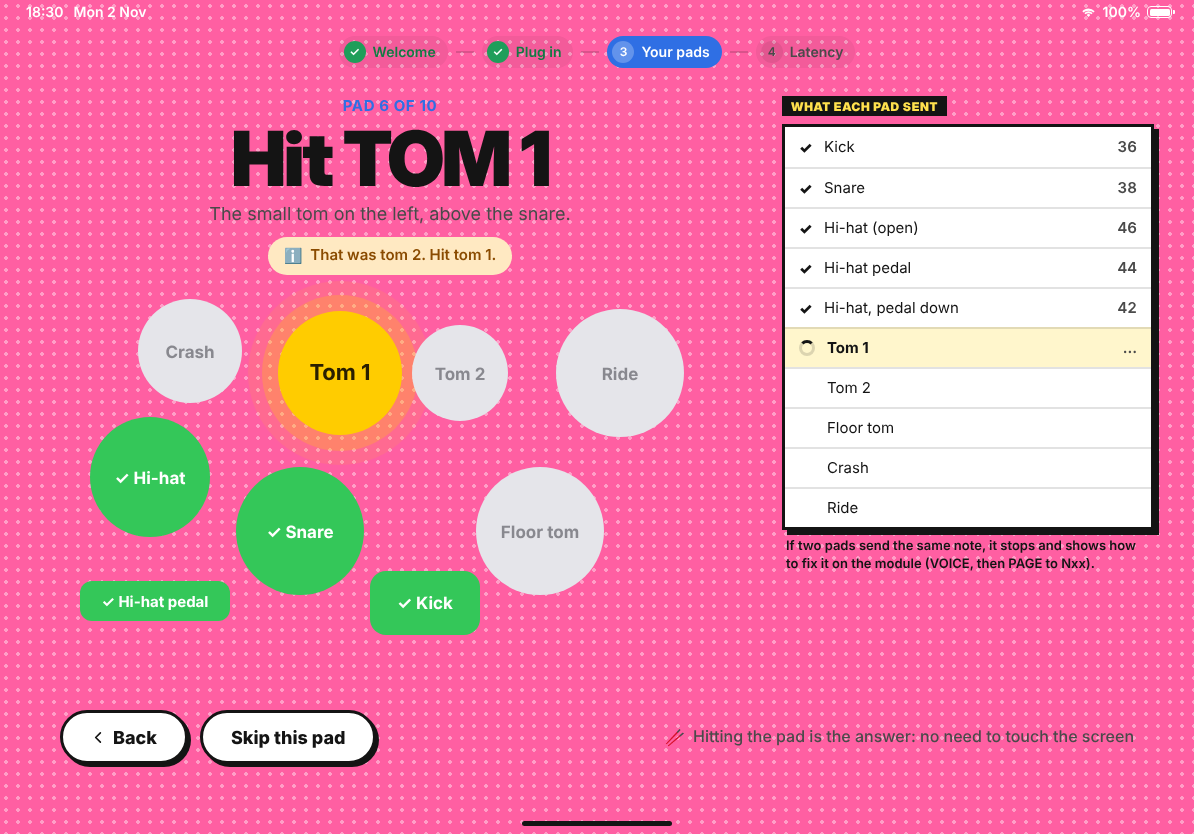
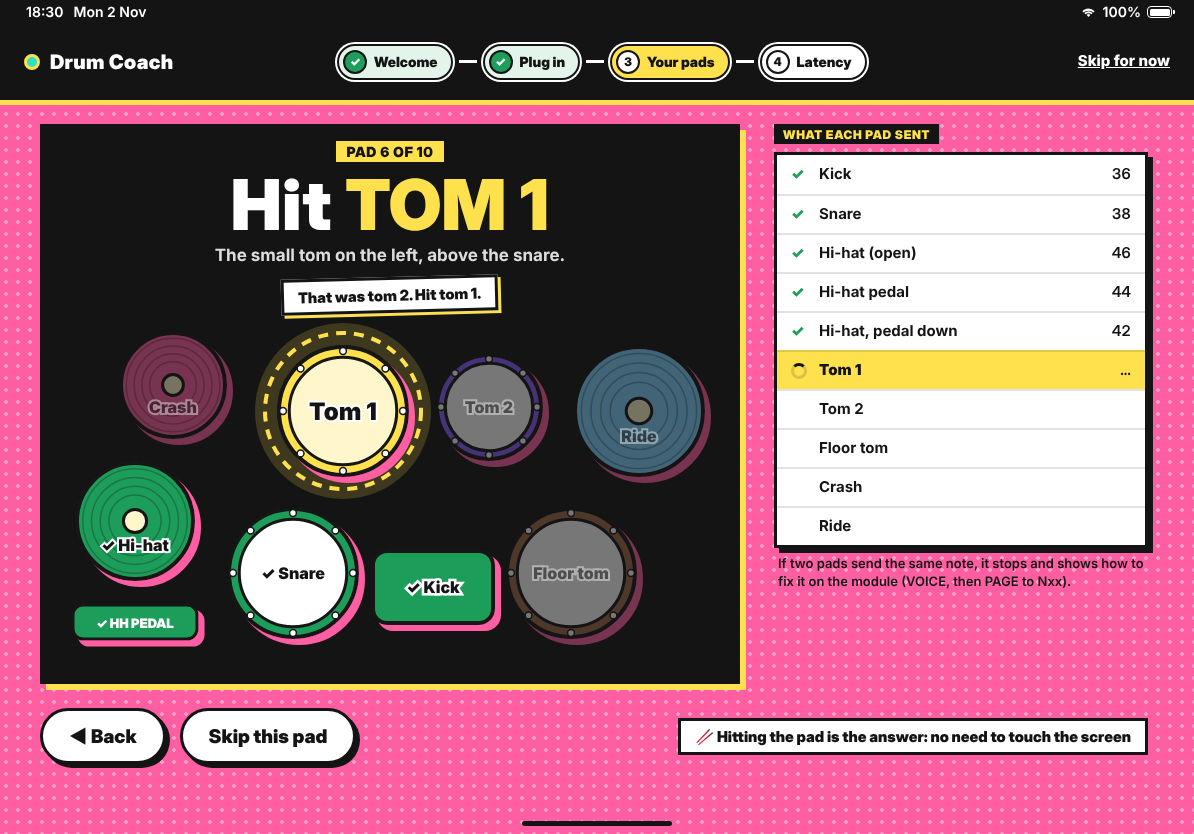
iPad mockups, web look: first run
Claude-Session: https://claude.ai/code/session_012qCzBwXtPvMyyk6zKAziwn

diff --git a/docs/mockups/ipad/first-run.html b/docs/mockups/ipad/first-run.html
@@ -5,75 +5,77 @@
 <meta name="viewport" content="width=1194">
 <title>First run · iPad mockup</title>
 <link rel="stylesheet" href="ipad.css">
+<script src="mock.js"></script>
 <style>
   /* Four steps in one file: #s1 welcome, #s2 plug in, #s3 hit each pad, #s4 latency. No hash = step 1. */
   .step { display: none; position: absolute; inset: 0; }
   .step:target { display: block; }
   .ipad:not(:has(.step:target)) #s1 { display: block; }
 
-  .prog { position: absolute; left: 0; right: 0; top: 36px; display: flex; justify-content: center; gap: 8px; align-items: center; }
-  .prog span { display: flex; align-items: center; gap: 7px; font-size: 14px; font-weight: 600; color: var(--label2); padding: 0 12px 0 5px; height: 32px; border-radius: 16px; background: var(--fill2); }
-  .prog span i { width: 22px; height: 22px; border-radius: 11px; display: grid; place-items: center; font-style: normal; font-size: 12px; background: var(--fill); color: var(--label2); }
-  .prog span.done { color: var(--greenInk); } .prog span.done i { background: var(--green); color: #fff; }
-  .prog span.cur { background: var(--tint); color: #fff; } .prog span.cur i { background: rgba(255,255,255,.25); color: #fff; }
-  .prog b { width: 18px; height: 2px; background: var(--sep); }
-  .skip { position: absolute; right: 28px; top: 36px; }
-  .foot { position: absolute; left: 60px; right: 60px; bottom: 70px; display: flex; align-items: center; gap: 12px; }
-  .foot .btn { height: 54px; border-radius: 27px; font-size: 18px; padding: 0 28px; }
+  .top .brand { padding: 0; font-size: 20px; }
+  .top .skip { color: #fff; font-weight: 800; font-size: 15px; text-decoration: underline; }
+  .prog { display: flex; align-items: center; gap: 6px; margin: 0 auto; }
+  .prog span { display: flex; align-items: center; gap: 7px; height: 36px; padding: 0 13px 0 4px; border-radius: 999px; background: var(--panel); border: 2.5px solid var(--line); box-shadow: 0 0 0 2px #fff; font: 900 14px var(--display); color: var(--line); }
+  .prog span i { width: 24px; height: 24px; border-radius: 50%; display: grid; place-items: center; font-style: normal; font-size: 12px; border: 2px solid var(--line); background: #fff; }
+  .prog span.done { background: #E3F5EA; } .prog span.done i { background: var(--good); color: #fff; }
+  .prog span.cur { background: var(--pop); }
+  .prog b { width: 18px; height: 3px; background: #fff; }
+  .foot { position: absolute; left: 40px; right: 46px; bottom: 70px; display: flex; align-items: center; gap: 14px; }
+  .foot .btn { height: 56px; font: 900 19px var(--display); padding: 0 26px; box-shadow: 4px 4px 0 var(--line); }
   .foot .sp { flex: 1; }
-  h1.big { font-size: 46px; letter-spacing: -.03em; line-height: 1.05; }
-  .lead { font-size: 20px; color: var(--label2); line-height: 1.4; margin-top: 14px; }
+  h1.big { font-size: 44px; line-height: 1.05; }
+  .lead { font-size: 18px; font-weight: 600; line-height: 1.4; margin-top: 12px; }
 
   /* 1 · welcome */
-  .wl { position: absolute; left: 80px; top: 130px; width: 440px; }
-  .wl .avatar { width: 84px; height: 84px; margin-bottom: 26px; } .wl .avatar .ic { width: 46px; height: 46px; }
-  .wl ul { margin: 22px 0 0; padding: 0; list-style: none; display: grid; gap: 12px; font-size: 17px; }
-  .wl li { display: flex; gap: 12px; align-items: center; }
-  .wl li .ic { width: 22px; height: 22px; color: var(--tint); }
-  .wr { position: absolute; right: 80px; top: 130px; width: 520px; display: flex; flex-direction: column; gap: 18px; }
-  .q h3 { font-size: 19px; margin-bottom: 4px; }
-  .q p { font-size: 14px; color: var(--label2); margin-bottom: 10px; }
-  .chips { display: flex; flex-wrap: wrap; gap: 8px; }
-  .chip { height: 44px; padding: 0 18px; border-radius: 22px; background: #fff; box-shadow: inset 0 0 0 1px var(--sep); display: flex; align-items: center; gap: 7px; font-size: 16px; font-weight: 500; }
-  .chip.on { background: var(--tint); color: #fff; box-shadow: none; }
-  .chip .ic { width: 15px; height: 15px; }
-  .q .seg { height: 44px; border-radius: 12px; width: 100%; }
-  .q .seg span { flex: 1; font-size: 16px; border-radius: 10px; flex-direction: column; line-height: 1.1; }
-  .q .seg span small { margin: 2px 0 0; font-size: 11px; }
+  .wl { position: absolute; left: 40px; top: 128px; width: 520px; height: 532px; padding: 28px 30px; border-width: 4px; box-shadow: 10px 10px 0 var(--line); }
+  .wl .avatar { width: 96px; height: 96px; font-size: 50px; margin-bottom: 22px; box-shadow: 5px 5px 0 var(--line); }
+  .wl ul { margin: 22px 0 0; padding: 0; list-style: none; display: grid; gap: 10px; font-size: 17px; font-weight: 700; }
+  .wl li { display: flex; gap: 12px; align-items: center; background: var(--panel2); border: 2px solid var(--line); padding: 7px 12px; }
+  .wl li .em { font-size: 22px; }
+  .wr { position: absolute; right: 46px; top: 128px; width: 560px; height: 532px; display: flex; flex-direction: column; gap: 20px; padding: 22px 24px; background: var(--panel2); }
+  .q h3 { font-size: 20px; margin-bottom: 3px; }
+  .q p { font-size: 14px; font-weight: 600; margin-bottom: 10px; }
+  .chips { display: flex; flex-wrap: wrap; gap: 10px; }
+  .chip { height: 46px; padding: 0 18px; border-radius: 999px; background: var(--panel); border: 3px solid var(--line); box-shadow: 3px 3px 0 var(--line); display: flex; align-items: center; gap: 7px; font: 900 15.5px var(--display); }
+  .chip.on { background: var(--accent); color: #fff; }
+  .q .seg { height: 50px; width: 100%; }
+  .q .seg span { flex: 1; font-size: 16px; flex-direction: column; line-height: 1.1; font-family: var(--display); font-weight: 900; }
+  .q .seg span small { margin: 2px 0 0; font: 800 11px var(--sf); color: var(--line); }
 
   /* 2 · plug in */
-  .plug { position: absolute; left: 0; right: 0; top: 110px; text-align: center; }
-  .plug p.lead { max-width: 640px; margin: 10px auto 0; }
-  .found { position: absolute; left: 50%; transform: translateX(-50%); top: 506px; width: 620px; }
-  .found .li { min-height: 58px; }
-  .found .sym { background: var(--green); }
-  .tips { position: absolute; left: 50%; transform: translateX(-50%); top: 650px; display: flex; gap: 24px; font-size: 14px; color: var(--label2); white-space: nowrap; }
-  .tips span { display: flex; align-items: center; gap: 6px; }
-  .tips .ic { width: 16px; height: 16px; }
+  .plug { position: absolute; left: 147px; top: 124px; width: 900px; height: 486px; text-align: center; padding: 22px 30px; border-width: 4px; box-shadow: 10px 10px 0 var(--line); }
+  .plug .lead { margin-top: 8px; }
+  .found { width: 620px; margin: 6px auto 0; text-align: left; box-shadow: 4px 4px 0 var(--line); }
+  .found .li { min-height: 56px; }
+  .found .sym { background: var(--good); color: #fff; }
+  .tips { position: absolute; left: 50%; transform: translateX(-50%); top: 634px; display: flex; gap: 12px; white-space: nowrap; }
+  .tips span { display: flex; align-items: center; gap: 6px; font-size: 13.5px; font-weight: 800; background: var(--panel); border: 2px solid var(--line); border-radius: 999px; padding: 3px 12px; }
 
   /* 3 · hit each pad */
-  .padL { position: absolute; left: 40px; top: 96px; width: 700px; height: 600px; text-align: center; }
-  .padL .k { font-size: 15px; font-weight: 700; color: var(--tint); letter-spacing: .04em; text-transform: uppercase; }
-  .padL h1 { font-size: 76px; letter-spacing: -.035em; line-height: 1; margin: 4px 0 6px; }
-  .padL p { font-size: 18px; color: var(--label2); }
-  .toast { display: inline-flex; align-items: center; gap: 8px; margin-top: 10px; height: 38px; padding: 0 16px; border-radius: 19px; background: var(--orangeSoft); color: var(--orangeInk); font-weight: 600; font-size: 15px; }
-  .sent { position: absolute; right: 40px; top: 96px; width: 372px; }
-  .sent .li { min-height: 40px; font-size: 15px; padding: 4px 14px; }
-  .sent .li .val { font-variant-numeric: tabular-nums; }
-  .sent .li.ok .ic { color: var(--green); width: 16px; height: 16px; }
-  .sent .li.now { background: var(--yellowSoft); font-weight: 700; }
+  .padL { position: absolute; left: 40px; top: 124px; width: 700px; height: 560px; text-align: center; padding: 14px 0 0; background: var(--night); color: #fff; overflow: hidden; }
+  .padL .k { display: inline-block; font: 900 14px var(--display); color: var(--line); background: var(--pop); padding: 2px 10px; letter-spacing: .05em; }
+  .padL h1 { font-size: 70px; line-height: 1; margin: 8px 0 4px; }
+  .padL h1 b { color: var(--pop); }
+  .padL p { font-size: 17px; font-weight: 700; color: #ddd; }
+  .toast { display: inline-flex; align-items: center; gap: 8px; margin-top: 10px; height: 36px; padding: 0 14px; background: var(--panel); color: var(--line); border: 3px solid var(--line); box-shadow: 3px 3px 0 var(--pop); font: 900 15px var(--display); transform: rotate(-1.5deg); }
+  .sent { position: absolute; right: 46px; top: 124px; width: 374px; }
+  .sent .li { min-height: 39px; font-size: 15px; padding: 3px 14px; font-weight: 700; }
+  .sent .li .val { font-variant-numeric: tabular-nums; font-family: var(--display); color: var(--line); }
+  .sent .li.ok .ck { color: var(--good); width: 16px; }
+  .sent .li.now { background: var(--pop); font-weight: 900; }
+  .sent .li .blank { width: 16px; }
 
   /* 4 · latency */
-  .lat { position: absolute; left: 0; right: 0; top: 110px; text-align: center; }
-  .beat { position: absolute; left: 50%; top: 290px; transform: translateX(-50%); width: 200px; height: 200px; border-radius: 50%; background: var(--snare); display: grid; place-items: center; color: #fff;
-    box-shadow: 0 0 0 16px rgba(88, 86, 214, .14), 0 0 0 34px rgba(88, 86, 214, .07); font-size: 92px; font-weight: 800; }
-  .taps { position: absolute; left: 50%; transform: translateX(-50%); top: 540px; display: flex; gap: 10px; }
-  .taps i { width: 22px; height: 22px; border-radius: 50%; box-shadow: inset 0 0 0 2px var(--label3); }
-  .taps i.on { background: var(--snare); box-shadow: none; }
-  .readout { position: absolute; left: 50%; transform: translateX(-50%); top: 584px; width: 720px; display: flex; gap: 12px; }
-  .readout .card { flex: 1; padding: 12px 16px; }
-  .readout b { font-size: 30px; letter-spacing: -.02em; display: block; line-height: 1.1; }
-  .readout span { white-space: nowrap; font-size: 14px; color: var(--label2); }
+  .lat { position: absolute; left: 197px; top: 124px; width: 800px; height: 510px; text-align: center; padding: 22px 30px; border-width: 4px; box-shadow: 10px 10px 0 var(--line); }
+  .lat .lead { margin-top: 8px; }
+  .taps { display: flex; gap: 9px; justify-content: center; margin: 4px 0 16px; }
+  .taps i { width: 24px; height: 24px; border-radius: 50%; border: 3px solid var(--line); background: var(--panel); }
+  .taps i.on { background: var(--snare); }
+  .readout { display: flex; gap: 14px; justify-content: center; }
+  .readout div { width: 220px; background: var(--panel2); border: 3px solid var(--line); box-shadow: 4px 4px 0 var(--line); padding: 8px 14px; text-align: left; }
+  .readout b { font: 900 30px/1.1 var(--display); display: block; }
+  .readout b small { font-size: 15px; color: var(--muted); }
+  .readout span { font-size: 13.5px; font-weight: 800; white-space: nowrap; }
 </style>
 </head>
 <body>
@@ -82,8 +84,9 @@
 
   <!-- 1 · Welcome and the setup questions -->
   <section class="step" id="s1">
-    <div class="prog"><span class="cur"><i>1</i>Welcome</span><b></b><span><i>2</i>Plug in</span><b></b><span><i>3</i>Your pads</span><b></b><span><i>4</i>Latency</span></div>
-    <div class="wl">
+    <header class="top"><div class="brand"><span class="logo"></span>Drum Coach</div>
+      <div class="prog"><span class="cur"><i>1</i>Welcome</span><b></b><span><i>2</i>Plug in</span><b></b><span><i>3</i>Your pads</span><b></b><span><i>4</i>Latency</span></div><span style="width:140px"></span></header>
+    <div class="card wl">
       <div class="avatar">🥁</div>
       <h1 class="big">Your drum teacher, at the kit.</h1>
       <p class="lead">It listens to your e-Drum, shows what to play, scores every hit and moves the tempo for you.</p>
@@ -93,114 +96,116 @@
         <li><span class="em">💬</span>A coach that writes your next lesson</li>
       </ul>
     </div>
-    <div class="wr">
-      <div class="q"><h3>What do you want to play?</h3><p>Lessons in other styles stay hidden. Pick none if you’re not sure yet.</p>
-        <div class="chips"><span class="chip on"><span class="em ck">✓</span>Rock / pop</span><span class="chip">Funk / R&amp;B</span><span class="chip">Jazz</span><span class="chip">Latin</span><span class="chip">Not sure yet</span></div></div>
-      <div class="q"><h3>Minutes a day</h3><p>Short and daily beats long and weekly.</p>
+    <div class="card wr">
+      <div class="q"><h3>🎸 What do you want to play?</h3><p>Lessons in other styles stay hidden. Pick none if you’re not sure yet.</p>
+        <div class="chips"><span class="chip on">✓ Rock / pop</span><span class="chip">Funk / R&amp;B</span><span class="chip">Jazz</span><span class="chip">Latin</span><span class="chip">Not sure yet</span></div></div>
+      <div class="q"><h3>⏱ Minutes a day</h3><p>Short and daily beats long and weekly.</p>
         <span class="seg"><span>15</span><span class="on">25<small>recommended</small></span><span>35</span><span>45</span></span></div>
-      <div class="q"><h3>Played drums before?</h3><p>If you have, one take per stage finds where you start.</p>
+      <div class="q"><h3>🥁 Played drums before?</h3><p>If you have, one take per stage finds where you start.</p>
         <span class="seg"><span class="on">New to drums</span><span>I’ve played before</span></span></div>
     </div>
-    <div class="foot"><span class="sp"></span><span class="btn fill">Continue<span class="ic i-chevr" style="width:16px;height:16px"></span></span></div>
+    <div class="foot"><span class="sp"></span><span class="btn fill">Continue ▶</span></div>
   </section>
 
   <!-- 2 · Plug in the kit -->
   <section class="step" id="s2">
-    <div class="prog"><span class="done"><i>✓</i>Welcome</span><b></b><span class="cur"><i>2</i>Plug in</span><b></b><span><i>3</i>Your pads</span><b></b><span><i>4</i>Latency</span></div>
-    <div class="plug">
+    <header class="top"><div class="brand"><span class="logo"></span>Drum Coach</div>
+      <div class="prog"><span class="done"><i>✓</i>Welcome</span><b></b><span class="cur"><i>2</i>Plug in</span><b></b><span><i>3</i>Your pads</span><b></b><span><i>4</i>Latency</span></div><span class="skip" style="width:140px;text-align:right">Skip for now</span></header>
+    <div class="card plug">
       <h1 class="big">Plug in your kit</h1>
       <p class="lead">Connect the drum module’s USB port to the iPad’s USB-C port. Then hit any pad.</p>
-      <svg width="760" height="230" viewBox="0 0 760 230" style="margin-top:22px" font-family="Inter, sans-serif">
+      <svg width="760" height="214" viewBox="0 0 760 214" style="margin-top:8px" font-family='"Arial Black","Inter Display",sans-serif' font-weight="900">
         <!-- the module -->
-        <rect x="40" y="58" width="220" height="120" rx="18" fill="#2C2C2E"/>
-        <rect x="58" y="76" width="96" height="40" rx="6" fill="#0FA3B1" opacity=".85"/><text x="106" y="102" text-anchor="middle" font-size="15" font-weight="700" fill="#fff">VOICE</text>
-        <circle cx="200" cy="96" r="20" fill="#48484A"/><circle cx="200" cy="96" r="8" fill="#8E8E93"/>
-        <g fill="#636366"><rect x="58" y="132" width="26" height="14" rx="4"/><rect x="92" y="132" width="26" height="14" rx="4"/><rect x="126" y="132" width="26" height="14" rx="4"/></g>
-        <text x="150" y="208" text-anchor="middle" font-size="15" font-weight="600" fill="rgba(60,60,67,.6)">drum module · USB</text>
-        <rect x="256" y="140" width="16" height="22" rx="3" fill="#8E8E93"/>
+        <rect x="46" y="50" width="220" height="120" rx="14" fill="#141414" stroke="#141414" stroke-width="4" filter="url(#none)"/>
+        <rect x="52" y="56" width="220" height="120" rx="14" fill="#FF5FA2" opacity="0"/>
+        <rect x="64" y="68" width="100" height="42" fill="#2DE1C2" stroke="#fff" stroke-width="3"/><text x="114" y="96" text-anchor="middle" font-size="15" fill="#141414">VOICE</text>
+        <circle cx="214" cy="90" r="22" fill="#FFE14D" stroke="#fff" stroke-width="3"/><circle cx="214" cy="90" r="7" fill="#141414"/>
+        <g fill="#fff"><rect x="64" y="126" width="28" height="14" rx="3"/><rect x="100" y="126" width="28" height="14" rx="3"/><rect x="136" y="126" width="28" height="14" rx="3"/></g>
+        <text x="156" y="200" text-anchor="middle" font-size="14" fill="#141414">DRUM MODULE · USB</text>
+        <rect x="262" y="132" width="18" height="24" fill="#FFE14D" stroke="#141414" stroke-width="3"/>
         <!-- the cable -->
-        <path d="M272 151 C 360 151, 380 80, 470 92 S 520 151, 536 151" fill="none" stroke="#1C1C1E" stroke-width="7" stroke-linecap="round"/>
-        <!-- the iPad in landscape -->
-        <rect x="536" y="40" width="200" height="146" rx="16" fill="#1C1C1E"/><rect x="546" y="50" width="180" height="126" rx="9" fill="#F2F2F7"/>
-        <rect x="556" y="60" width="44" height="106" rx="7" fill="#fff"/><rect x="608" y="60" width="108" height="50" rx="7" fill="#007AFF"/><rect x="608" y="116" width="52" height="50" rx="7" fill="#fff"/><rect x="664" y="116" width="52" height="50" rx="7" fill="#fff"/>
-        <rect x="528" y="142" width="10" height="20" rx="3" fill="#8E8E93"/>
-        <text x="636" y="208" text-anchor="middle" font-size="15" font-weight="600" fill="rgba(60,60,67,.6)">iPad · USB-C</text>
+        <path d="M280 144 C 370 144, 380 70, 470 82 S 520 144, 534 144" fill="none" stroke="#141414" stroke-width="9" stroke-linecap="round"/>
+        <!-- the iPad in landscape, showing the app -->
+        <rect x="534" y="34" width="200" height="146" rx="16" fill="#141414"/>
+        <rect x="544" y="44" width="180" height="126" rx="8" fill="#FF5FA2"/>
+        <rect x="544" y="44" width="40" height="126" fill="#141414"/><rect x="550" y="58" width="28" height="9" rx="4" fill="#FFE14D"/>
+        <rect x="594" y="56" width="118" height="44" fill="#FFE14D" stroke="#141414" stroke-width="2.5"/>
+        <rect x="594" y="108" width="56" height="50" fill="#2F6FE4" stroke="#141414" stroke-width="2.5"/><rect x="656" y="108" width="56" height="50" fill="#fff" stroke="#141414" stroke-width="2.5"/>
+        <rect x="526" y="134" width="10" height="20" fill="#FFE14D" stroke="#141414" stroke-width="2.5"/>
+        <text x="634" y="200" text-anchor="middle" font-size="14" fill="#141414">IPAD · USB-C</text>
       </svg>
+      <div class="found group">
+        <div class="li"><span class="sym">✓</span><span class="grow"><b>e-Drum found</b><small>USB · Medeli · MIDI clock filtered</small></span><span class="val"><i class="dot"></i>connected</span></div>
+        <div class="li"><span class="sym" style="background:var(--snare)">🥁</span><span class="grow"><b>BAM! You hit the snare</b><small>note 38 · velocity 92</small></span><span class="val" style="color:var(--good)">it works</span></div>
+      </div>
     </div>
-    <div class="found group">
-      <div class="li withSym"><span class="sym"><span class="em ck">✓</span></span><span class="grow"><b style="font-weight:600">e-Drum found</b><small>USB · Medeli · MIDI clock filtered</small></span><span class="val">connected</span></div>
-      <div class="li withSym"><span class="sym" style="background:var(--snare)"><span class="em">🥁</span></span><span class="grow"><b style="font-weight:600">You hit the snare</b><small>note 38 · velocity 92</small></span><span class="val" style="color:var(--greenInk);font-weight:600">it works</span></div>
-    </div>
-    <div class="tips"><span><span class="em">🔌</span>USB-C to USB-B cable, or a hub if you want to charge too</span><span><span class="em">ℹ</span>Other music apps can hold the kit: close them</span></div>
-    <div class="foot"><span class="btn"><span class="em">👆</span>No kit with me: use touch pads</span><span class="sp"></span><span class="btn fill">Continue<span class="ic i-chevr" style="width:16px;height:16px"></span></span></div>
+    <div class="tips"><span>🔌 USB-C to USB-B cable, or a hub if you want to charge too</span><span>ℹ Other music apps can hold the kit: close them</span></div>
+    <div class="foot"><span class="btn">👆 No kit with me: use touch pads</span><span class="sp"></span><span class="btn fill">Continue ▶</span></div>
   </section>
 
   <!-- 3 · Hit each pad once (readable from the throne; hitting the pad is the answer) -->
   <section class="step" id="s3">
-    <div class="prog"><span class="done"><i>✓</i>Welcome</span><b></b><span class="done"><i>✓</i>Plug in</span><b></b><span class="cur"><i>3</i>Your pads</span><b></b><span><i>4</i>Latency</span></div>
-    <div class="padL">
-      <div class="k">Pad 6 of 10</div>
-      <h1>Hit TOM 1</h1>
+    <header class="top"><div class="brand"><span class="logo"></span>Drum Coach</div>
+      <div class="prog"><span class="done"><i>✓</i>Welcome</span><b></b><span class="done"><i>✓</i>Plug in</span><b></b><span class="cur"><i>3</i>Your pads</span><b></b><span><i>4</i>Latency</span></div><span class="skip" style="width:140px;text-align:right">Skip for now</span></header>
+    <div class="card night padL">
+      <div class="k">PAD 6 OF 10</div>
+      <h1>Hit <b>TOM 1</b></h1>
       <p>The small tom on the left, above the snare.</p>
-      <span class="toast"><span class="em">ℹ</span>That was tom 2. Hit tom 1.</span>
-      <div id="kit" style="margin-top:6px"></div>
+      <span class="toast">That was tom 2. Hit tom 1.</span>
+      <div id="kit" style="margin-top:2px"></div>
     </div>
     <div class="sent">
       <div class="groupHead">What each pad sent</div>
       <div class="group">
-        <div class="li ok"><span class="em ck">✓</span><span class="grow">Kick</span><span class="val">36</span></div>
-        <div class="li ok"><span class="em ck">✓</span><span class="grow">Snare</span><span class="val">38</span></div>
-        <div class="li ok"><span class="em ck">✓</span><span class="grow">Hi-hat (open)</span><span class="val">46</span></div>
-        <div class="li ok"><span class="em ck">✓</span><span class="grow">Hi-hat pedal</span><span class="val">44</span></div>
-        <div class="li ok"><span class="em ck">✓</span><span class="grow">Hi-hat, pedal down</span><span class="val">42</span></div>
+        <div class="li ok"><span class="ck">✓</span><span class="grow">Kick</span><span class="val">36</span></div>
+        <div class="li ok"><span class="ck">✓</span><span class="grow">Snare</span><span class="val">38</span></div>
+        <div class="li ok"><span class="ck">✓</span><span class="grow">Hi-hat (open)</span><span class="val">46</span></div>
+        <div class="li ok"><span class="ck">✓</span><span class="grow">Hi-hat pedal</span><span class="val">44</span></div>
+        <div class="li ok"><span class="ck">✓</span><span class="grow">Hi-hat, pedal down</span><span class="val">42</span></div>
         <div class="li now"><span class="spinner" style="width:16px;height:16px"></span><span class="grow">Tom 1</span><span class="val">…</span></div>
-        <div class="li"><span style="width:16px"></span><span class="grow">Tom 2</span><span class="val"></span></div>
-        <div class="li"><span style="width:16px"></span><span class="grow">Floor tom</span><span class="val"></span></div>
-        <div class="li"><span style="width:16px"></span><span class="grow">Crash</span><span class="val"></span></div>
-        <div class="li"><span style="width:16px"></span><span class="grow">Ride</span><span class="val"></span></div>
+        <div class="li"><span class="blank"></span><span class="grow">Tom 2</span></div>
+        <div class="li"><span class="blank"></span><span class="grow">Floor tom</span></div>
+        <div class="li"><span class="blank"></span><span class="grow">Crash</span></div>
+        <div class="li"><span class="blank"></span><span class="grow">Ride</span></div>
       </div>
       <div class="groupFoot">If two pads send the same note, it stops and shows how to fix it on the module (VOICE, then PAGE to Nxx).</div>
     </div>
-    <div class="foot"><span class="btn"><span class="ic i-chevl" style="width:15px;height:15px"></span>Back</span><span class="btn">Skip this pad</span><span class="sp"></span><span style="display:flex;align-items:center;gap:8px;font-size:16px;color:var(--label2);font-weight:500"><span class="em">🥢</span>Hitting the pad is the answer: no need to touch the screen</span></div>
+    <div class="foot"><span class="btn">◀ Back</span><span class="btn">Skip this pad</span><span class="sp"></span><span style="font: 900 15px var(--display);background:var(--panel);border:3px solid var(--line);padding:6px 14px">🥢 Hitting the pad is the answer: no need to touch the screen</span></div>
   </section>
 
-  <!-- 4 · Latency: tap with the click -->
+  <!-- 4 · Latency: hit with the click -->
   <section class="step" id="s4">
-    <div class="prog"><span class="done"><i>✓</i>Welcome</span><b></b><span class="done"><i>✓</i>Plug in</span><b></b><span class="done"><i>✓</i>Your pads</span><b></b><span class="cur"><i>4</i>Latency</span></div>
-    <div class="lat">
+    <header class="top"><div class="brand"><span class="logo"></span>Drum Coach</div>
+      <div class="prog"><span class="done"><i>✓</i>Welcome</span><b></b><span class="done"><i>✓</i>Plug in</span><b></b><span class="done"><i>✓</i>Your pads</span><b></b><span class="cur"><i>4</i>Latency</span></div><span class="skip" style="width:140px;text-align:right">Skip for now</span></header>
+    <div class="card lat">
       <h1 class="big">Hit the snare with the click</h1>
       <p class="lead">16 hits. The app learns how late your speakers are and corrects every score.</p>
-      <div style="margin-top:12px"><span class="pill tint"><span class="em">🔊</span>Listening through: iPad speakers</span></div>
+      <div style="margin-top:10px"><span class="pill tint">🔊 Listening through: iPad speakers</span></div>
+      <div id="snare"></div>
+      <div class="taps"><i class="on"></i><i class="on"></i><i class="on"></i><i class="on"></i><i class="on"></i><i class="on"></i><i class="on"></i><i class="on"></i><i class="on"></i><i class="on"></i><i class="on"></i><i></i><i></i><i></i><i></i><i></i></div>
+      <div class="readout">
+        <div><b class="num">11 <small>of 16</small></b><span>hits so far</span></div>
+        <div><b class="num">31 ms</b><span>after the click, on average</span></div>
+        <div><b class="num">±6 ms</b><span>steady: a good measurement</span></div>
+      </div>
     </div>
-    <div class="beat">3</div>
-    <div class="taps"><i class="on"></i><i class="on"></i><i class="on"></i><i class="on"></i><i class="on"></i><i class="on"></i><i class="on"></i><i class="on"></i><i class="on"></i><i class="on"></i><i class="on"></i><i></i><i></i><i></i><i></i><i></i></div>
-    <div class="readout">
-      <div class="card"><b class="num">11 <small style="font-size:16px;color:var(--label2)">of 16</small></b><span>hits so far</span></div>
-      <div class="card"><b class="num">31 ms</b><span>after the click, on average</span></div>
-      <div class="card"><b class="num">±6 ms</b><span>steady: a good measurement</span></div>
-    </div>
-    <div class="foot"><span class="btn"><span class="em">↻</span>Start again</span><span class="sp"></span><span class="btn fill" style="opacity:.4">Done</span></div>
+    <div class="foot"><span class="btn">↻ Start again</span><span class="sp"></span><span class="btn fill" style="opacity:.45">Done ▶</span></div>
   </section>
 
   <div class="home"></div>
 </div>
 <script>
-// Step 3's kit: done pads green, the one to hit yellow and big, the rest waiting.
-(function () {
-  const done = ['kick', 'snare', 'hihat'], now = 'tom1';
-  const P = [['crash', 'Crash', 150, 70, 52], ['hihat', 'Hi-hat', 110, 196, 60], ['tom1', 'Tom 1', 300, 92, 62], ['tom2', 'Tom 2', 420, 92, 48],
-    ['ride', 'Ride', 580, 92, 64], ['snare', 'Snare', 260, 250, 64], ['floor', 'Floor tom', 500, 250, 64]];
-  let s = `<svg width="700" height="370" viewBox="0 0 700 370" font-family="Inter, -apple-system, sans-serif">`;
-  for (const [id, name, cx, cy, r] of P) {
-    const d = done.includes(id), n = id === now;
-    if (n) s += `<circle cx="${cx}" cy="${cy}" r="${r + 16}" fill="rgba(255,204,0,.25)"/><circle cx="${cx}" cy="${cy}" r="${r + 30}" fill="rgba(255,204,0,.1)"/>`;
-    s += `<circle cx="${cx}" cy="${cy}" r="${r}" fill="${n ? '#FFCC00' : d ? '#34C759' : '#E5E5EA'}"/>`;
-    s += `<text x="${cx}" y="${cy + 7}" text-anchor="middle" font-size="${n ? 22 : 17}" font-weight="700" fill="${n ? '#2A1F00' : d ? '#fff' : 'rgba(60,60,67,.55)'}">${d ? '✓ ' : ''}${name}</text>`;
-  }
-  s += `<rect x="330" y="290" width="110" height="64" rx="16" fill="#34C759"/><text x="385" y="328" text-anchor="middle" font-size="17" font-weight="700" fill="#fff">✓ Kick</text>`;
-  s += `<rect x="40" y="300" width="150" height="40" rx="12" fill="#34C759"/><text x="115" y="326" text-anchor="middle" font-size="15" font-weight="700" fill="#fff">✓ Hi-hat pedal</text>`;
-  document.getElementById('kit').innerHTML = s + `</svg>`;
-})();
+// Step 3's kit, drawn like the web app's: done pads green, the one to hit yellow and big, the rest waiting.
+const done = ['kick', 'snare', 'hihat'];
+const P = [{ id: 'crash', x: 130, y: 70, r: 52 }, { id: 'hihat', x: 92, y: 206, r: 58 }, { id: 'tom1', x: 300, y: 96, r: 64 }, { id: 'tom2', x: 446, y: 92, r: 52 },
+  { id: 'ride', x: 596, y: 96, r: 64 }, { id: 'snare', x: 250, y: 258, r: 64 }, { id: 'floor', x: 528, y: 258, r: 64 }, { id: 'kick', x: 390, y: 272, w: 120, h: 72 }];
+const pads = P.map(p => [p, { done: done.includes(p.id), now: p.id === 'tom1', dim: !done.includes(p.id) && p.id !== 'tom1', labelSize: p.id === 'tom1' ? 24 : 16 }]);
+let s = kit(694, 340, pads, 'w', false);
+s = s.replace('<g filter', '<circle cx="300" cy="96" r="88" fill="#FFE14D" opacity=".18"/><circle cx="300" cy="96" r="78" fill="none" stroke="#FFE14D" stroke-width="4" stroke-dasharray="10 8"/><g filter');
+s = s.replace('</svg>', `<g filter="url(#wsh)"><rect x="30" y="290" width="124" height="34" rx="10" fill="#1E9E5A" stroke="${INK}" stroke-width="3"/></g><text x="92" y="313" text-anchor="middle" font-family='${FONT}' font-weight="900" font-size="13" fill="#fff">✓ HH PEDAL</text></svg>`);
+document.getElementById('kit').innerHTML = s;
+// Step 4: the snare, big, with the count on it.
+document.getElementById('snare').innerHTML = kit(300, 196, [[{ id: 'snare', x: 150, y: 100, r: 86 }, { label: '3', labelSize: 72, word: 'BAM!', wordSize: 28 }]], 's', false);
 </script>
 </body>
 </html>
